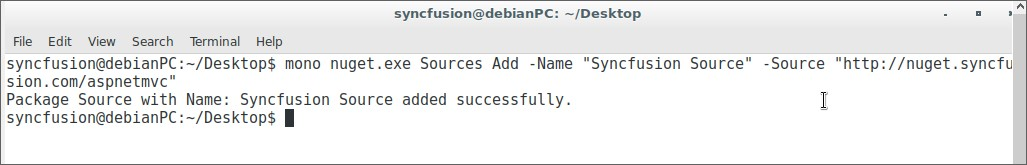
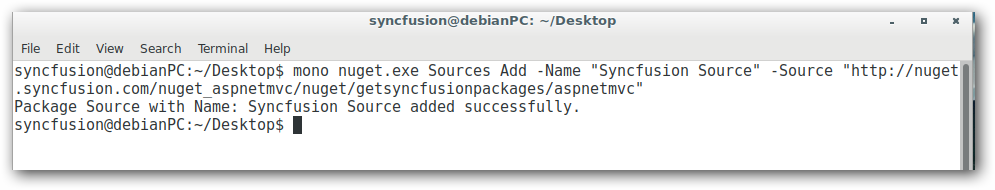
EXT-2115 Core details removed from MVC

Changed region(s): [[0.0, 0.0, 1.0, 1.0], [0.7789, 0.5455, 0.8101, 0.6667]]

diff --git a/aspnetmvc/Installation-and-Deployment.md b/aspnetmvc/Installation-and-Deployment.md
@@ -30,14 +30,12 @@ The steps to install the Syncfusion ASP.NET MVC NuGet Packages in Visual Studio 
 
    **Name**: Name of the package that listed in Available package sources  
    **Source**: Syncfusion ASP.NET MVC NuGet Package feed URL
-   [http://nuget.syncfusion.com/aspnetmvc](http://nuget.syncfusion.com/aspnetmvc)
+   [http://nuget.syncfusion.com/nuget_aspnetmvc/nuget/getsyncfusionpackages/aspnetmvc](http://nuget.syncfusion.com/nuget_aspnetmvc/nuget/getsyncfusionpackages/aspnetmvc)
     
    ![](installation-and-deployment_images/NuGetConfig2.jpeg)
 
    N> The `Source` text box in the above image denotes the location of the NuGet packages and the `Name` section, allows you to provide a unique name for NuGet Packages Source.
-   You may face the NuGet package installation/restore error while installing the Syncfusion ASP.NET Core NuGet packages from Syncfusion Public feed URL since some URL redirecting issue in NuGet Package Manager. To resolve this, use the below Syncfusion ASP.NET MVC NuGet feed link. 
-   Syncfusion ASP.NET MVC NuGet Full Feed Link: [http://nuget.syncfusion.com/nuget_aspnetmvc/nuget/getsyncfusionpackages/aspnetmvc](http://nuget.syncfusion.com/nuget_aspnetmvc/nuget/getsyncfusionpackages/aspnetmvc)
- 
+   
 I> Syncfusion other platforms NuGet packages feed links are available [here](http://nuget.syncfusion.com/)
 
 ### NuGet Installation
